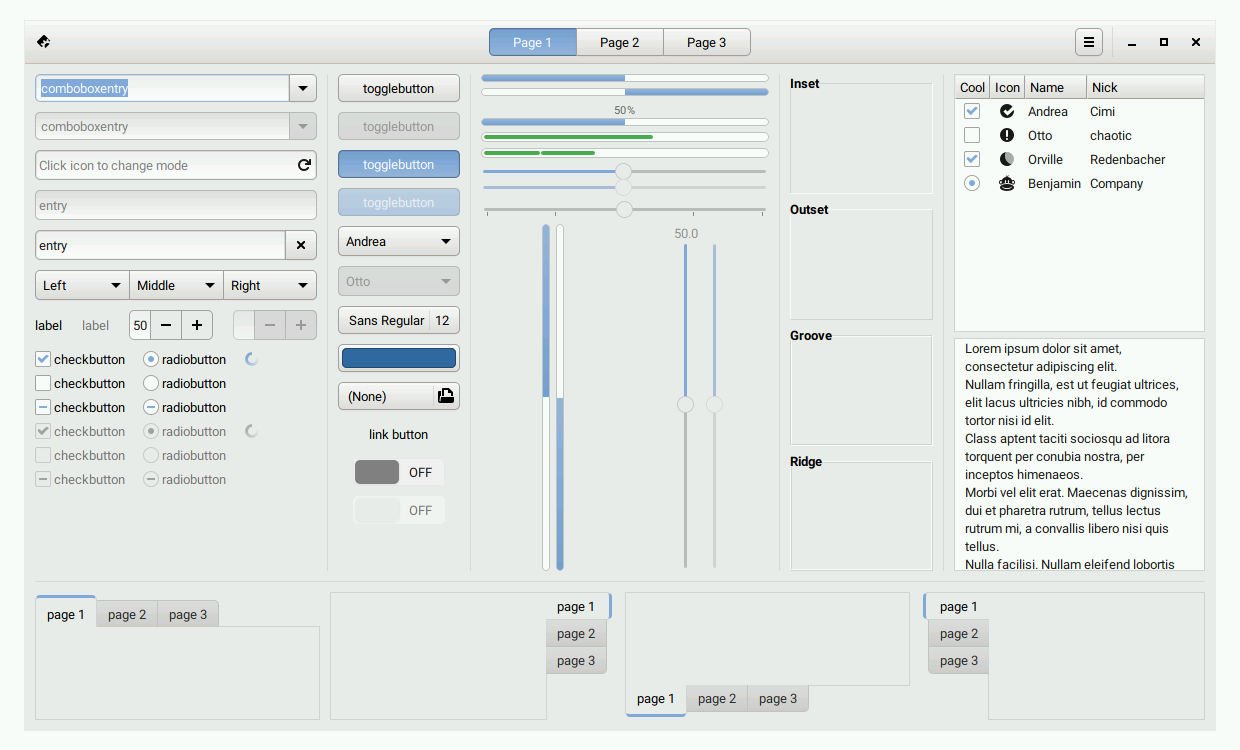
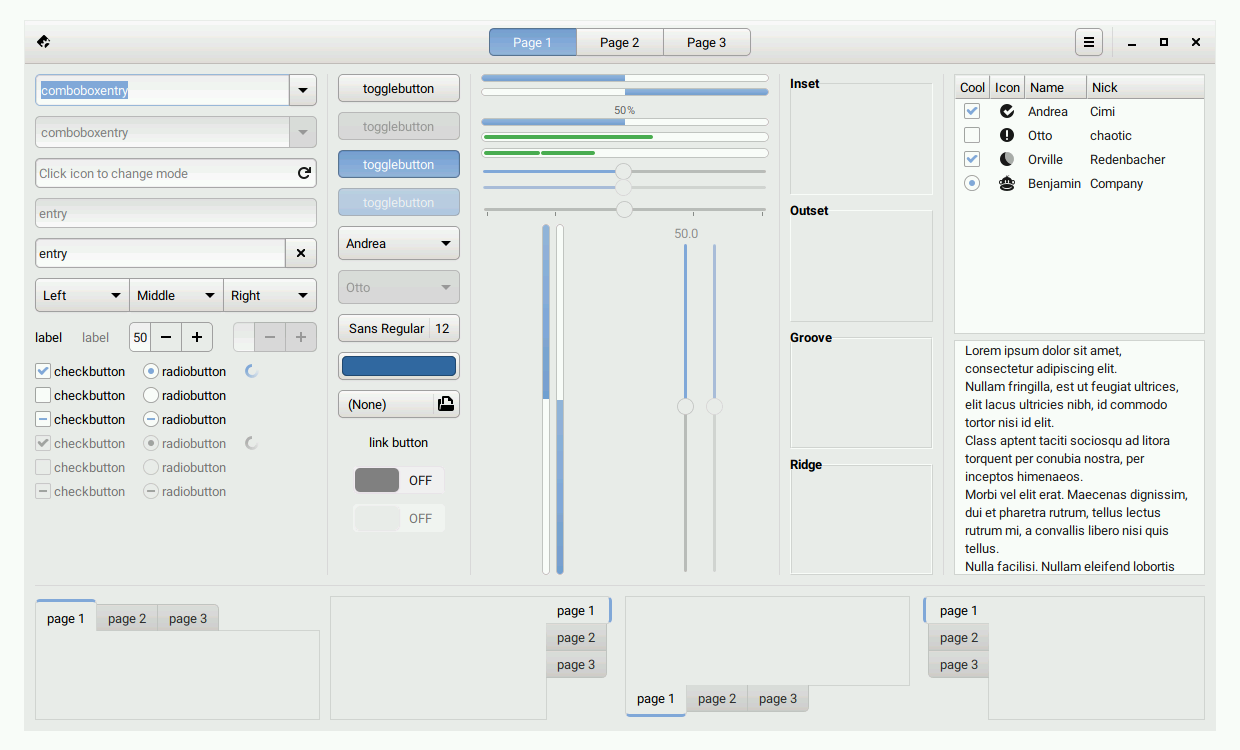
feat(gtk3.20): increase combobox padding to match entry and editable combobox (or better to decrease padding in those two??)

diff --git a/src/gtk-3.20/scss/widgets/_button.scss b/src/gtk-3.20/scss/widgets/_button.scss
@@ -676,7 +676,7 @@ $button_border_width: 1px;
 
         box button, box entry {
             @extend %linked_button;
-            padding: $spacing ($spacing + 2px);
+            padding: $spacing + 2px ($spacing + 2px);
         }
 
         .linked:not(.vertical) > & > box > button.combo {
